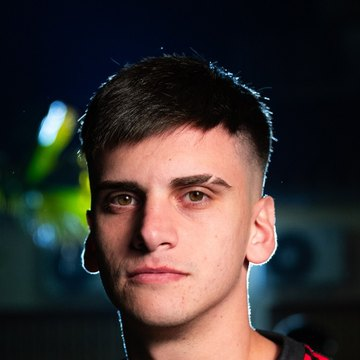
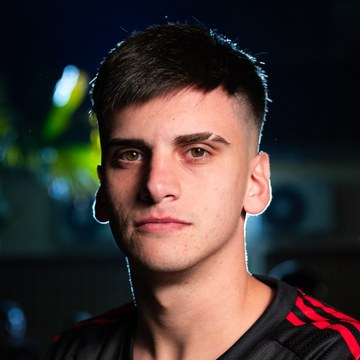
Copa Potrero: grupales 2024 y 2025, fotos centradas, sección Jugá y colaboraciones

diff --git a/copa-potrero/index.html b/copa-potrero/index.html
@@ -107,7 +107,13 @@ tr.us td:first-child{color:var(--red)}
 
 /* plantel */
 .team{margin:0 0 14px;position:relative;background:var(--ink)}
-.team img{width:100%;display:block;aspect-ratio:16/8;object-fit:cover;object-position:50% 45%}
+.team{aspect-ratio:16/8;max-width:100%;overflow:hidden}
+.team img{position:absolute;inset:0;width:100%;height:100%;display:block;object-fit:cover;object-position:50% 45%;opacity:0;transition:opacity .8s}
+.team img.on{opacity:1}
+.team-dots{position:absolute;right:14px;bottom:14px;display:flex;gap:6px}
+.team-dots button{width:10px;height:10px;border-radius:50%;border:0;padding:0;background:rgba(255,255,255,.5);cursor:pointer}
+.team-dots button.on{background:#fff}
+@media (max-width:640px){.team{aspect-ratio:4/3}}
 .team figcaption{position:absolute;left:0;bottom:0;background:var(--red);color:#fff;font-family:var(--display);font-weight:900;font-size:1.2rem;text-transform:uppercase;letter-spacing:.03em;padding:8px 14px}
 .squad{display:grid;grid-template-columns:repeat(auto-fill,minmax(230px,1fr));gap:12px}
 .player{background:var(--paper);padding:18px;display:grid;grid-template-columns:auto 1fr;gap:16px;align-items:center}
@@ -159,8 +165,11 @@ tr.us td:first-child{color:var(--red)}
 .btn-ig:hover{background:var(--red)}
 .colabs{display:grid;grid-template-columns:repeat(auto-fill,minmax(320px,1fr));gap:16px;margin-top:16px}
 .colab{background:var(--paper);padding:18px;display:grid;gap:12px;align-content:start;min-width:0}
-.colab-h h3{font-size:1.8rem;margin-top:4px}
-.colab .instagram-media{margin:0!important;min-width:0!important;width:100%!important;max-width:540px!important}
+.colab-h{display:flex;flex-direction:column;align-items:center;text-align:center;gap:4px}
+.colab-h .eyebrow{display:block;margin:0;color:var(--muted)}
+.colab-h h3{font-size:1.8rem;margin:0}
+.colab .instagram-media{margin-left:auto!important;margin-right:auto!important}
+.colab .instagram-media{margin:0 auto!important;min-width:0!important;width:100%!important;max-width:540px!important}
 .colab blockquote.instagram-media:not([style]){border:0;padding:0}
 .colab blockquote a{display:block;text-align:center;font-family:var(--display);font-weight:900;font-size:1.3rem;text-transform:uppercase;text-decoration:none;background:var(--ink);color:#fff;padding:14px}
 .community{margin-top:14px;background:var(--paper);padding:18px 22px;display:flex;gap:16px;align-items:center;flex-wrap:wrap}
@@ -189,9 +198,12 @@ tr.us td:first-child{color:var(--red)}
 .tile .go{font-weight:800;font-size:.78rem;letter-spacing:.12em;text-transform:uppercase;margin-top:6px}
 
 .join{margin-top:64px;background:var(--red);color:#fff}
+.join-ph{grid-column:1/-1;width:100%;max-width:100%;aspect-ratio:21/8;object-fit:cover;object-position:50% 40%;display:block;border:4px solid #fff}
+@media (max-width:640px){.join-ph{aspect-ratio:4/3}}
 .join-in{display:grid;grid-template-columns:1.2fr .8fr;gap:28px;align-items:center;padding-block:48px}
 .join-in > *{min-width:0}
-.join .eyebrow{color:#fff;opacity:.85}
+.join .eyebrow{display:block;color:#fff;opacity:.85}
+.join h2{display:block}
 .join h2{font-size:clamp(2.8rem,7vw,5.2rem);margin-top:10px}
 .join p{max-width:46ch;margin:14px 0 0;font-size:1rem}
 .join-cta{display:grid;gap:10px}
@@ -304,7 +316,16 @@ footer .handles a{color:var(--paper);text-decoration:none}
 
   <section id="plantel">
     <div class="sec-head"><h2 class="it">Plan<span>tel</span></h2><p>17 jugadores y cuerpo técnico confirmados para la Copa Potrero 2026.</p></div>
-    <figure class="team"><img src="fotos-grupal_2025.jpg" alt="Plantel de Liga Núñez en la Copa Potrero 2025"><figcaption>Plantel Liga Núñez · Copa Potrero 2025</figcaption></figure>
+    <figure class="team" id="teamShow">
+      <img src="fotos-plantel_cp2025.jpg" alt="Liga Núñez formado en la Copa Potrero 2025" class="on">
+      <img src="fotos-24_g0.jpg" alt="Liga Núñez formado en la Copa Potrero 2024" loading="lazy">
+      <img src="fotos-25_09.jpg" alt="Liga Núñez antes de un partido de la Copa Potrero 2025" loading="lazy">
+      <img src="fotos-25_b7.jpg" alt="Liga Núñez formado en la Copa Potrero 2025" loading="lazy">
+      <img src="fotos-24_g4.jpg" alt="Ronda de Liga Núñez en la Copa Potrero 2024" loading="lazy">
+      <img src="fotos-24_g6.jpg" alt="Liga Núñez saliendo a la cancha en la Copa Potrero 2024" loading="lazy">
+      <figcaption>Plantel Liga Núñez · Copa Potrero</figcaption>
+      <div class="team-dots" aria-hidden="true"></div>
+    </figure>
     <div class="squad" id="squad"></div>
   </section>
 
@@ -385,6 +406,7 @@ footer .handles a{color:var(--paper);text-decoration:none}
 
 <section class="join" id="jugar">
   <div class="wrap join-in">
+    <img class="join-ph" src="fotos-grupal_2025.jpg" alt="Plantel de Liga Núñez" loading="lazy">
     <div class="join-txt">
       <span class="eyebrow">El torneo F8 más grande del país</span>
       <h2 class="it">¿Querés jugar en<br>Liga Núñez?</h2>
@@ -432,7 +454,7 @@ footer .handles a{color:var(--paper);text-decoration:none}
   var roles={'Monza':['AC','Ayudante de campo'],'Carlos':['DT','Director técnico']};
   staff.forEach(function(n){var r=roles[n]||['DT','Cuerpo técnico'];var p=document.createElement('div');p.className='player dt';p.innerHTML=av(n,r[0])+'<span><span class="nm">'+n+'</span><br><span class="ps">'+r[1]+'</span></span>';sq.appendChild(p);});
   // Galería por año (lugares listos para cargar fotos)
-  var sets={ultima:['grupal_2025','25_09','24_6','25_02','24_7','25_06','24_8'],'2025':['grupal_2025','25_09','25_02','25_03','25_06','25_07','25_08','25_01','25_04','25_10','25_00'],'2024':['24_6','24_0','24_2','24_5','24_7','24_8']};
+  var sets={ultima:['plantel_cp2025','24_g0','24_6','25_b0','25_02','24_7','25_06','24_8'],'2025':['plantel_cp2025','25_09','25_02','25_b0','25_03','25_b3','25_06','25_b1','25_07','25_b4','25_08','25_b6','25_01','25_b8','25_04','25_10','25_00','grupal_2025'],'2024':['24_g0','24_g6','24_g7','24_g3','24_g4','24_6','24_d7_8','24_0','24_d7_4','24_2','24_d7_9','24_5','24_d7_6','24_7','24_d7_10','24_8','24_d7_2']};
   var notes={ultima:'Acá van las fotos de la última fecha jugada. Mientras arranca la Copa, una selección de 2024 y 2025.',
     '2025':'Copa Potrero 2025: partidos ante La Wilson, Las Piedras, Barche y Fiebre Amarilla.',
     '2024':'Copa Potrero 2024: el año que llegamos a cuartos de final.'};
@@ -444,6 +466,12 @@ footer .handles a{color:var(--paper);text-decoration:none}
   }
   document.querySelectorAll('.gal-tabs button').forEach(function(b){b.addEventListener('click',function(){gal(b.dataset.g);});});
   gal('ultima');
+  // slideshow plantel
+  (function(){var f=document.getElementById('teamShow');if(!f)return;var im=f.querySelectorAll('img'),dots=f.querySelector('.team-dots'),i=0,t;
+    function go(n){im[i].classList.remove('on');dots.children[i].classList.remove('on');i=n;im[i].classList.add('on');dots.children[i].classList.add('on');}
+    im.forEach(function(_,k){var b=document.createElement('button');b.type='button';b.setAttribute('aria-label','Foto '+(k+1));if(!k)b.className='on';b.onclick=function(){go(k);clearInterval(t);t=setInterval(nx,5000)};dots.appendChild(b)});
+    function nx(){go((i+1)%im.length)}
+    if(!window.matchMedia('(prefers-reduced-motion: reduce)').matches)t=setInterval(nx,5000);})();
   // Cuenta regresiva al 14/11 9:30 (UTC-3)
   var start=new Date('2026-11-14T09:30:00-03:00').getTime(), end=new Date('2026-11-23T23:59:00-03:00').getTime();
   function tick(){
